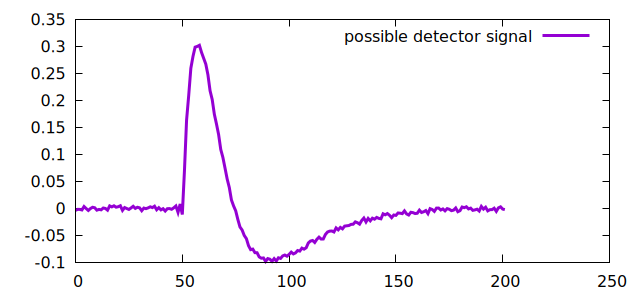
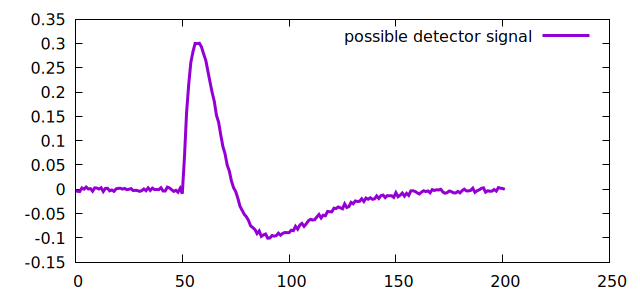
fix window integral and delayed difference

Changed region(s): [[0.0312, 0.12, 0.3125, 0.81], [0.2812, 0.12, 0.7812, 0.87], [0.0312, 0.84, 0.125, 0.9]]

diff --git a/technical-stuff/digital-pulseshape-transformation/README.md b/technical-stuff/digital-pulseshape-transformation/README.md
@@ -40,6 +40,19 @@ With the assumtion, that the signal is a step function that was filtered by a fi
 
 ```
 
+The program `filtool` takes an arbitrary number of filters (h,l,H,L) with their parameters:
+  - h high pass filter with time constant as parameter
+  - l low pass filter with time constant as parameter 
+  - H inverse high pass with time constant as parameter
+  - L inverse low pass with time constant as parameter
+  - i window integral with window width as parameter
+  - d delayed difference with delay as parameter
+
+The filter specification is followed by a command (gen, fit, apply):
+  - gen generates a step function an applies all specified filters
+  - fit fits a function (step function filtered by specified filters) to data points from stdin by varying the filter parameters. Two additional parameters (time shift and amplitude) are also used and the start parameters for these are specified behind the "fit" keyword.
+  - apply applies all specified filters to the signal on stdin and outputs the result to stdout
+
 ![demo_signal_fit](demo_signal_fit.png)
 
 The fit result a good description of the signal. 
